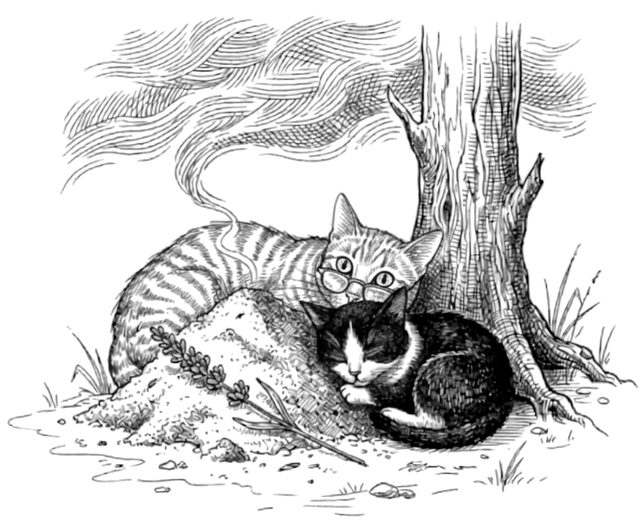
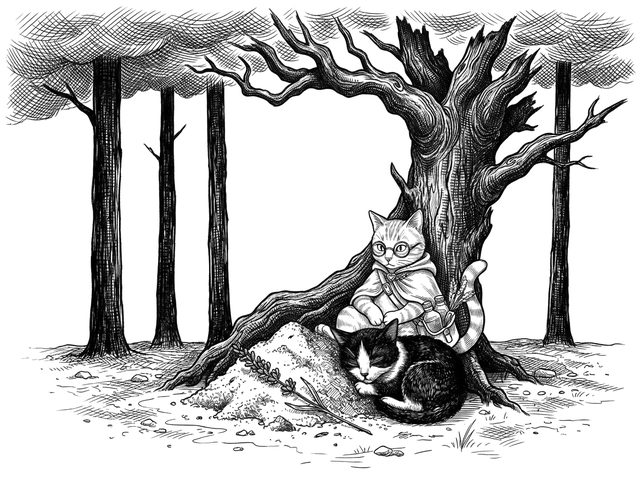
update

diff --git a/book.html b/book.html
@@ -186,10 +186,10 @@
     </div>
     <div class="il-grid">
         <figure><div class="il"><img src="assets/images/book/il-prologue.jpg" alt="프롤로그 · 초대 장 첫머리 펜화풍 일러스트" loading="lazy"></div><figcaption>프롤로그 · 초대</figcaption></figure>
-        <figure><div class="il"><img src="assets/images/book/il-02.jpg" alt="2장 · 녹슨 빚 장 첫머리 펜화풍 일러스트" loading="lazy"></div><figcaption>2장 · 녹슨 빚</figcaption></figure>
+        <figure><div class="il"><img src="assets/images/book/il-03.jpg" alt="3장 · 하베스트 빌리지 장 첫머리 펜화풍 일러스트" loading="lazy"></div><figcaption>3장 · 하베스트 빌리지</figcaption></figure>
         <figure><div class="il"><img src="assets/images/book/il-07.jpg" alt="7장 · 재의 밤 장 첫머리 펜화풍 일러스트" loading="lazy"></div><figcaption>7장 · 재의 밤</figcaption></figure>
         <figure><div class="il"><img src="assets/images/book/il-14.jpg" alt="14장 · 피시테일 항구 장 첫머리 펜화풍 일러스트" loading="lazy"></div><figcaption>14장 · 피시테일 항구</figcaption></figure>
-        <figure><div class="il"><img src="assets/images/book/il-17.jpg" alt="17장 · 정원과 어울리지 않는 소리 장 첫머리 펜화풍 일러스트" loading="lazy"></div><figcaption>17장 · 정원과 어울리지 않는 소리</figcaption></figure>
+        <figure><div class="il"><img src="assets/images/book/il-18.jpg" alt="18장 · 떠돌이 약초사 장 첫머리 펜화풍 일러스트" loading="lazy"></div><figcaption>18장 · 떠돌이 약초사</figcaption></figure>
         <figure><div class="il"><img src="assets/images/book/il-28.jpg" alt="28장 · 걸을 수 있다는 걸 기억해 낸 집 장 첫머리 펜화풍 일러스트" loading="lazy"></div><figcaption>28장 · 걸을 수 있다는 걸 기억해 낸 집</figcaption></figure>
     </div>
   </section>
@@ -246,6 +246,7 @@
       <div><dt>펴낸곳</dt><dd>에델카타리아</dd></div>
       <div><dt>판형</dt><dd>A5 (148×210mm) · 182쪽 · 무선제본(앞뒤 날개)</dd></div>
       <div><dt>본문</dt><dd>장편소설 · 프롤로그와 28장, 에필로그 · 펜화풍 일러스트 30컷</dd></div>
+      <div><dt>AI 활용</dt><dd>문장: 작가가 정한 세계관·인물·줄거리를 바탕으로 생성형 AI(Claude) 활용<br>표지: 작가의 수채화 원화를 바탕으로 생성형 AI로 일부 수정<br>본문 삽화: 작가의 그림체를 바탕으로 생성형 AI 활용</dd></div>
       <div><dt>출간일</dt><dd>2026년 12월 30일 (초판 1쇄)</dd></div>
       <div><dt>정가</dt><dd>18,000원</dd></div>
       <div><dt>ISBN</dt><dd>979-11-221134-0-2 03810</dd></div>

diff --git a/index.html b/index.html
@@ -414,7 +414,7 @@
     </div>
 
     <div class="author">
-      <img class="author-art" width="180" height="180" style="width:180px;height:180px;border-radius:50%;object-fit:cover" src="assets/images/author-cottage.jpg" alt="작가가 직접 그린 표지 그림 속 코티지" loading="lazy">
+      <img class="author-art" width="180" height="180" style="width:180px;height:180px;border-radius:50%;object-fit:cover" src="assets/images/author-cottage.jpg" alt="작가의 표지 원화 속 코티지" loading="lazy">
       <h3>Klara Hatfield</h3>
       <p>클라라 햇필드(Klara Hatfield)라는 이름으로, 이 정원과 그 안에 사는 이들의 이야기를 기록하고 있습니다.</p>
       <p>이 세계는 원래 몇 장의 그림에서 시작되었습니다. 어느 순간부터 그림만으로는 다 담을 수 없는 이야기들이 생겨났고, 『에델 카타리아』 1권 『약초사 고양이의 비밀정원』은 그렇게 태어난 첫 책입니다.</p>
